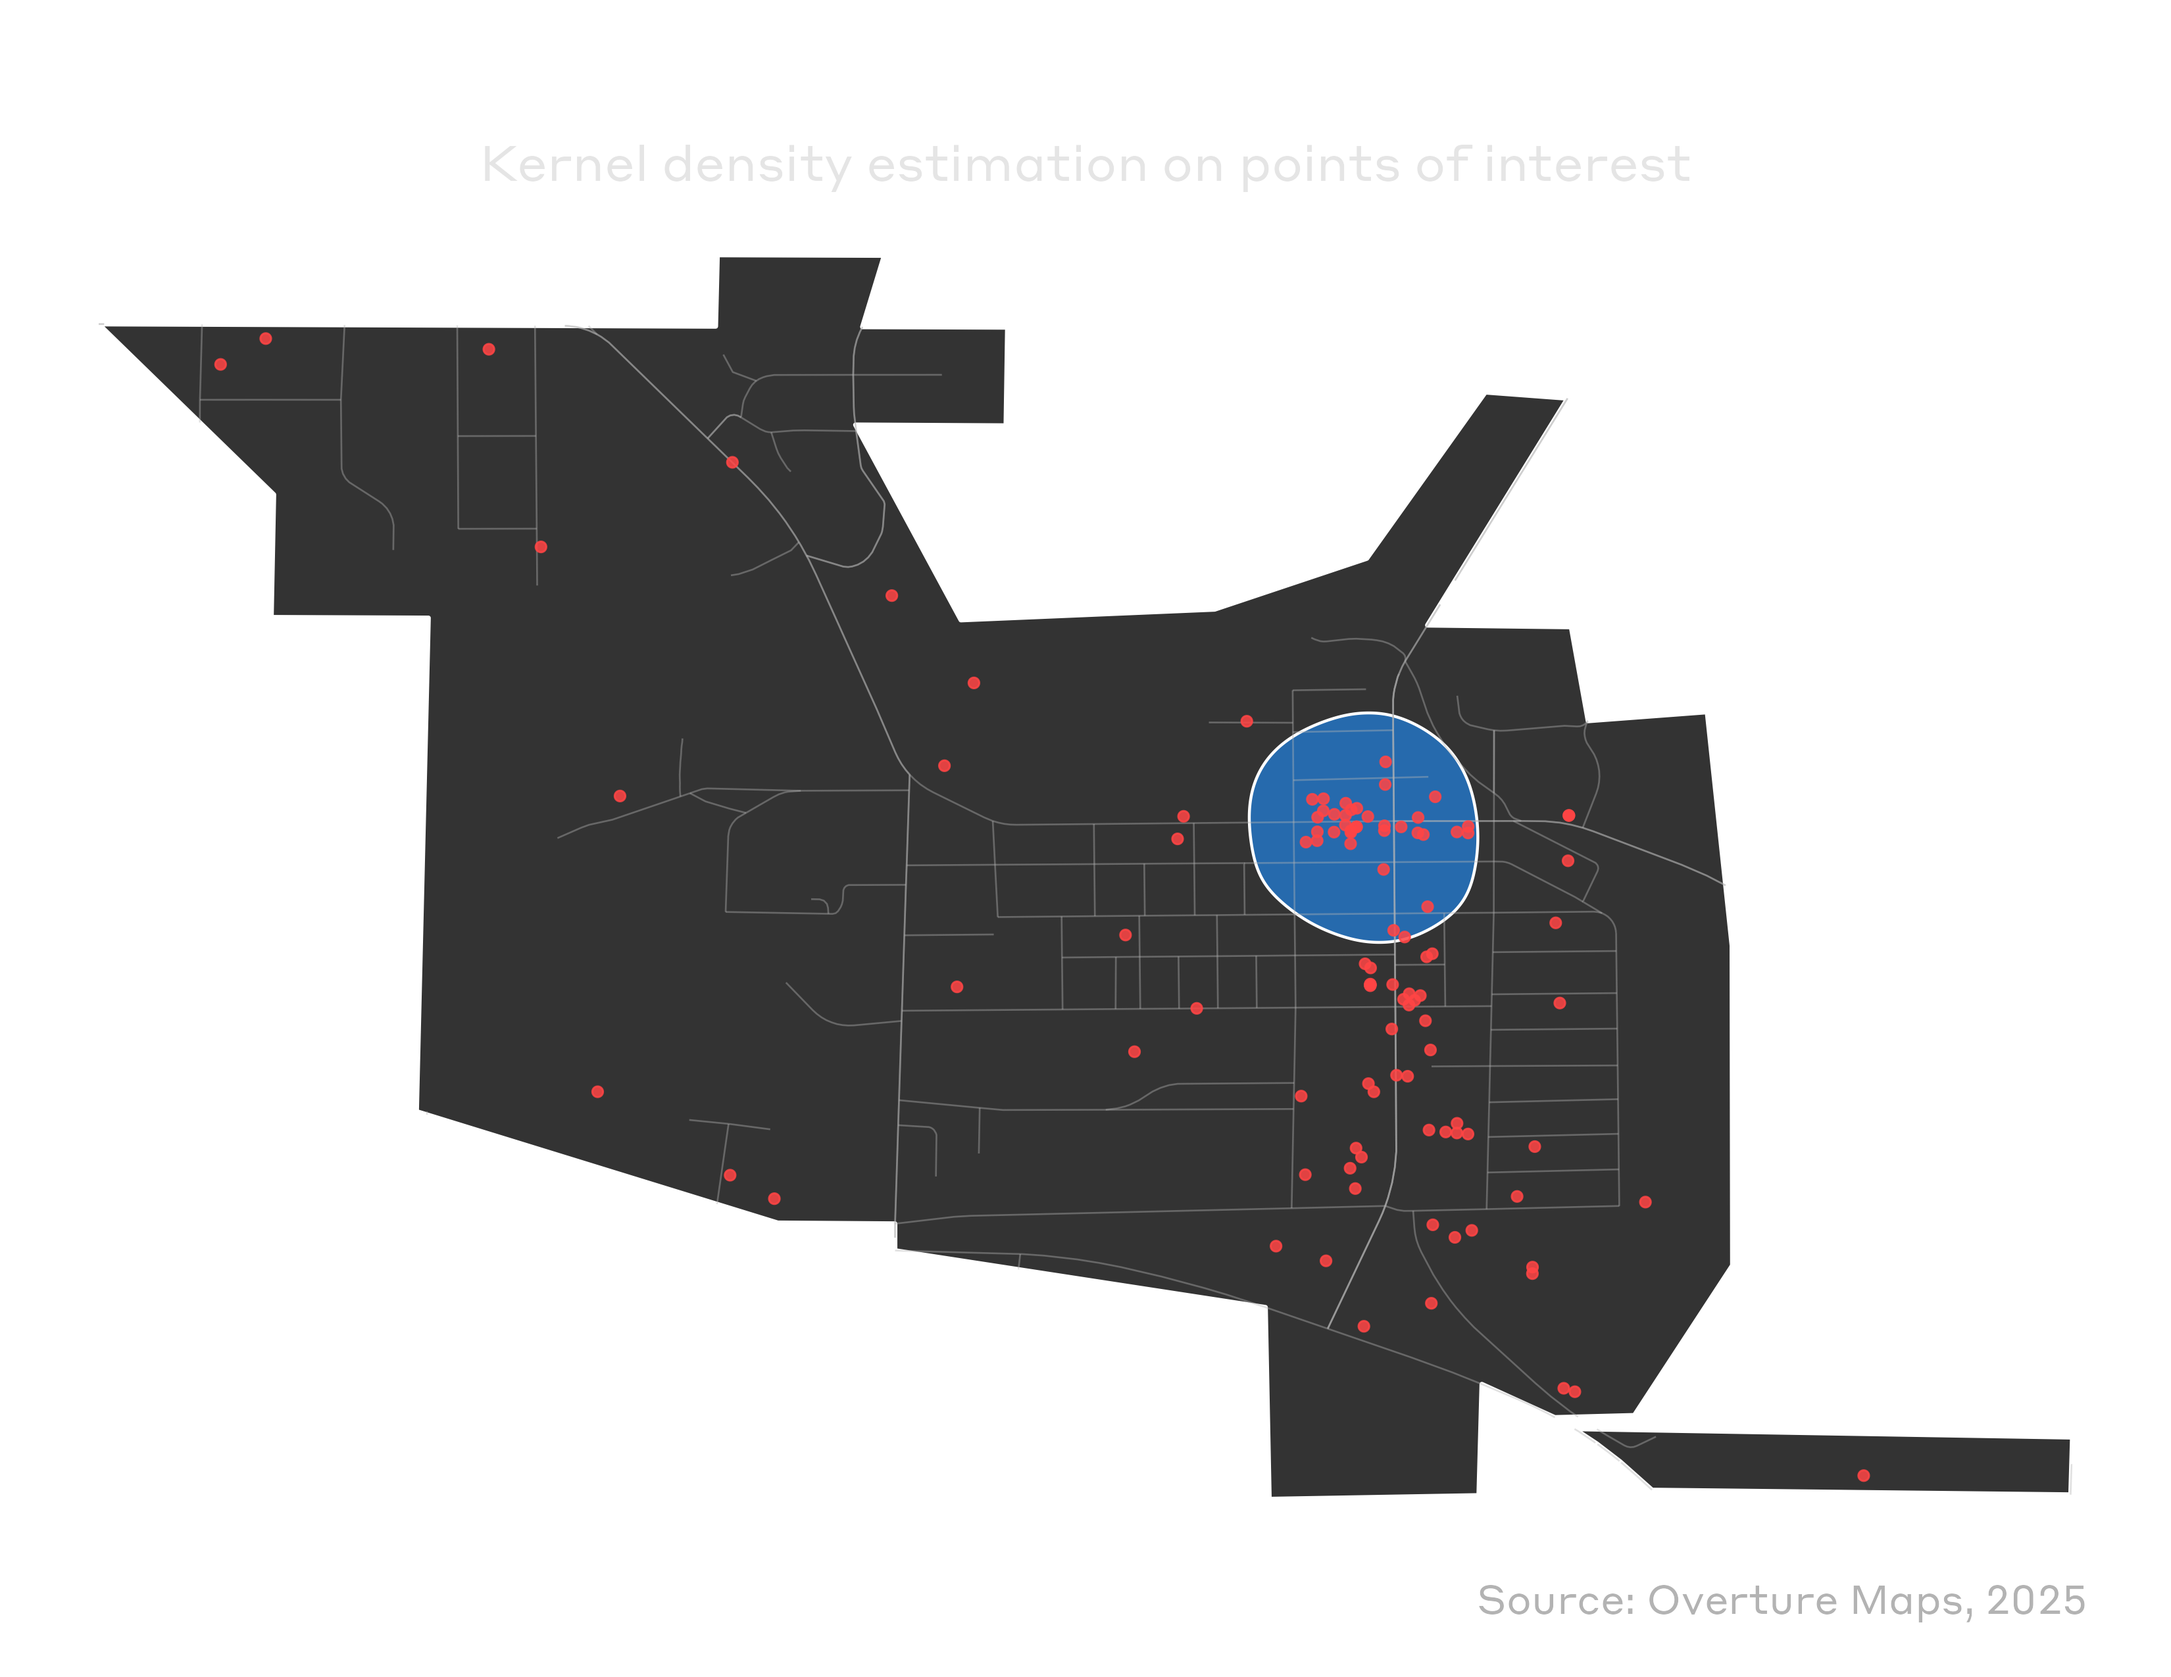
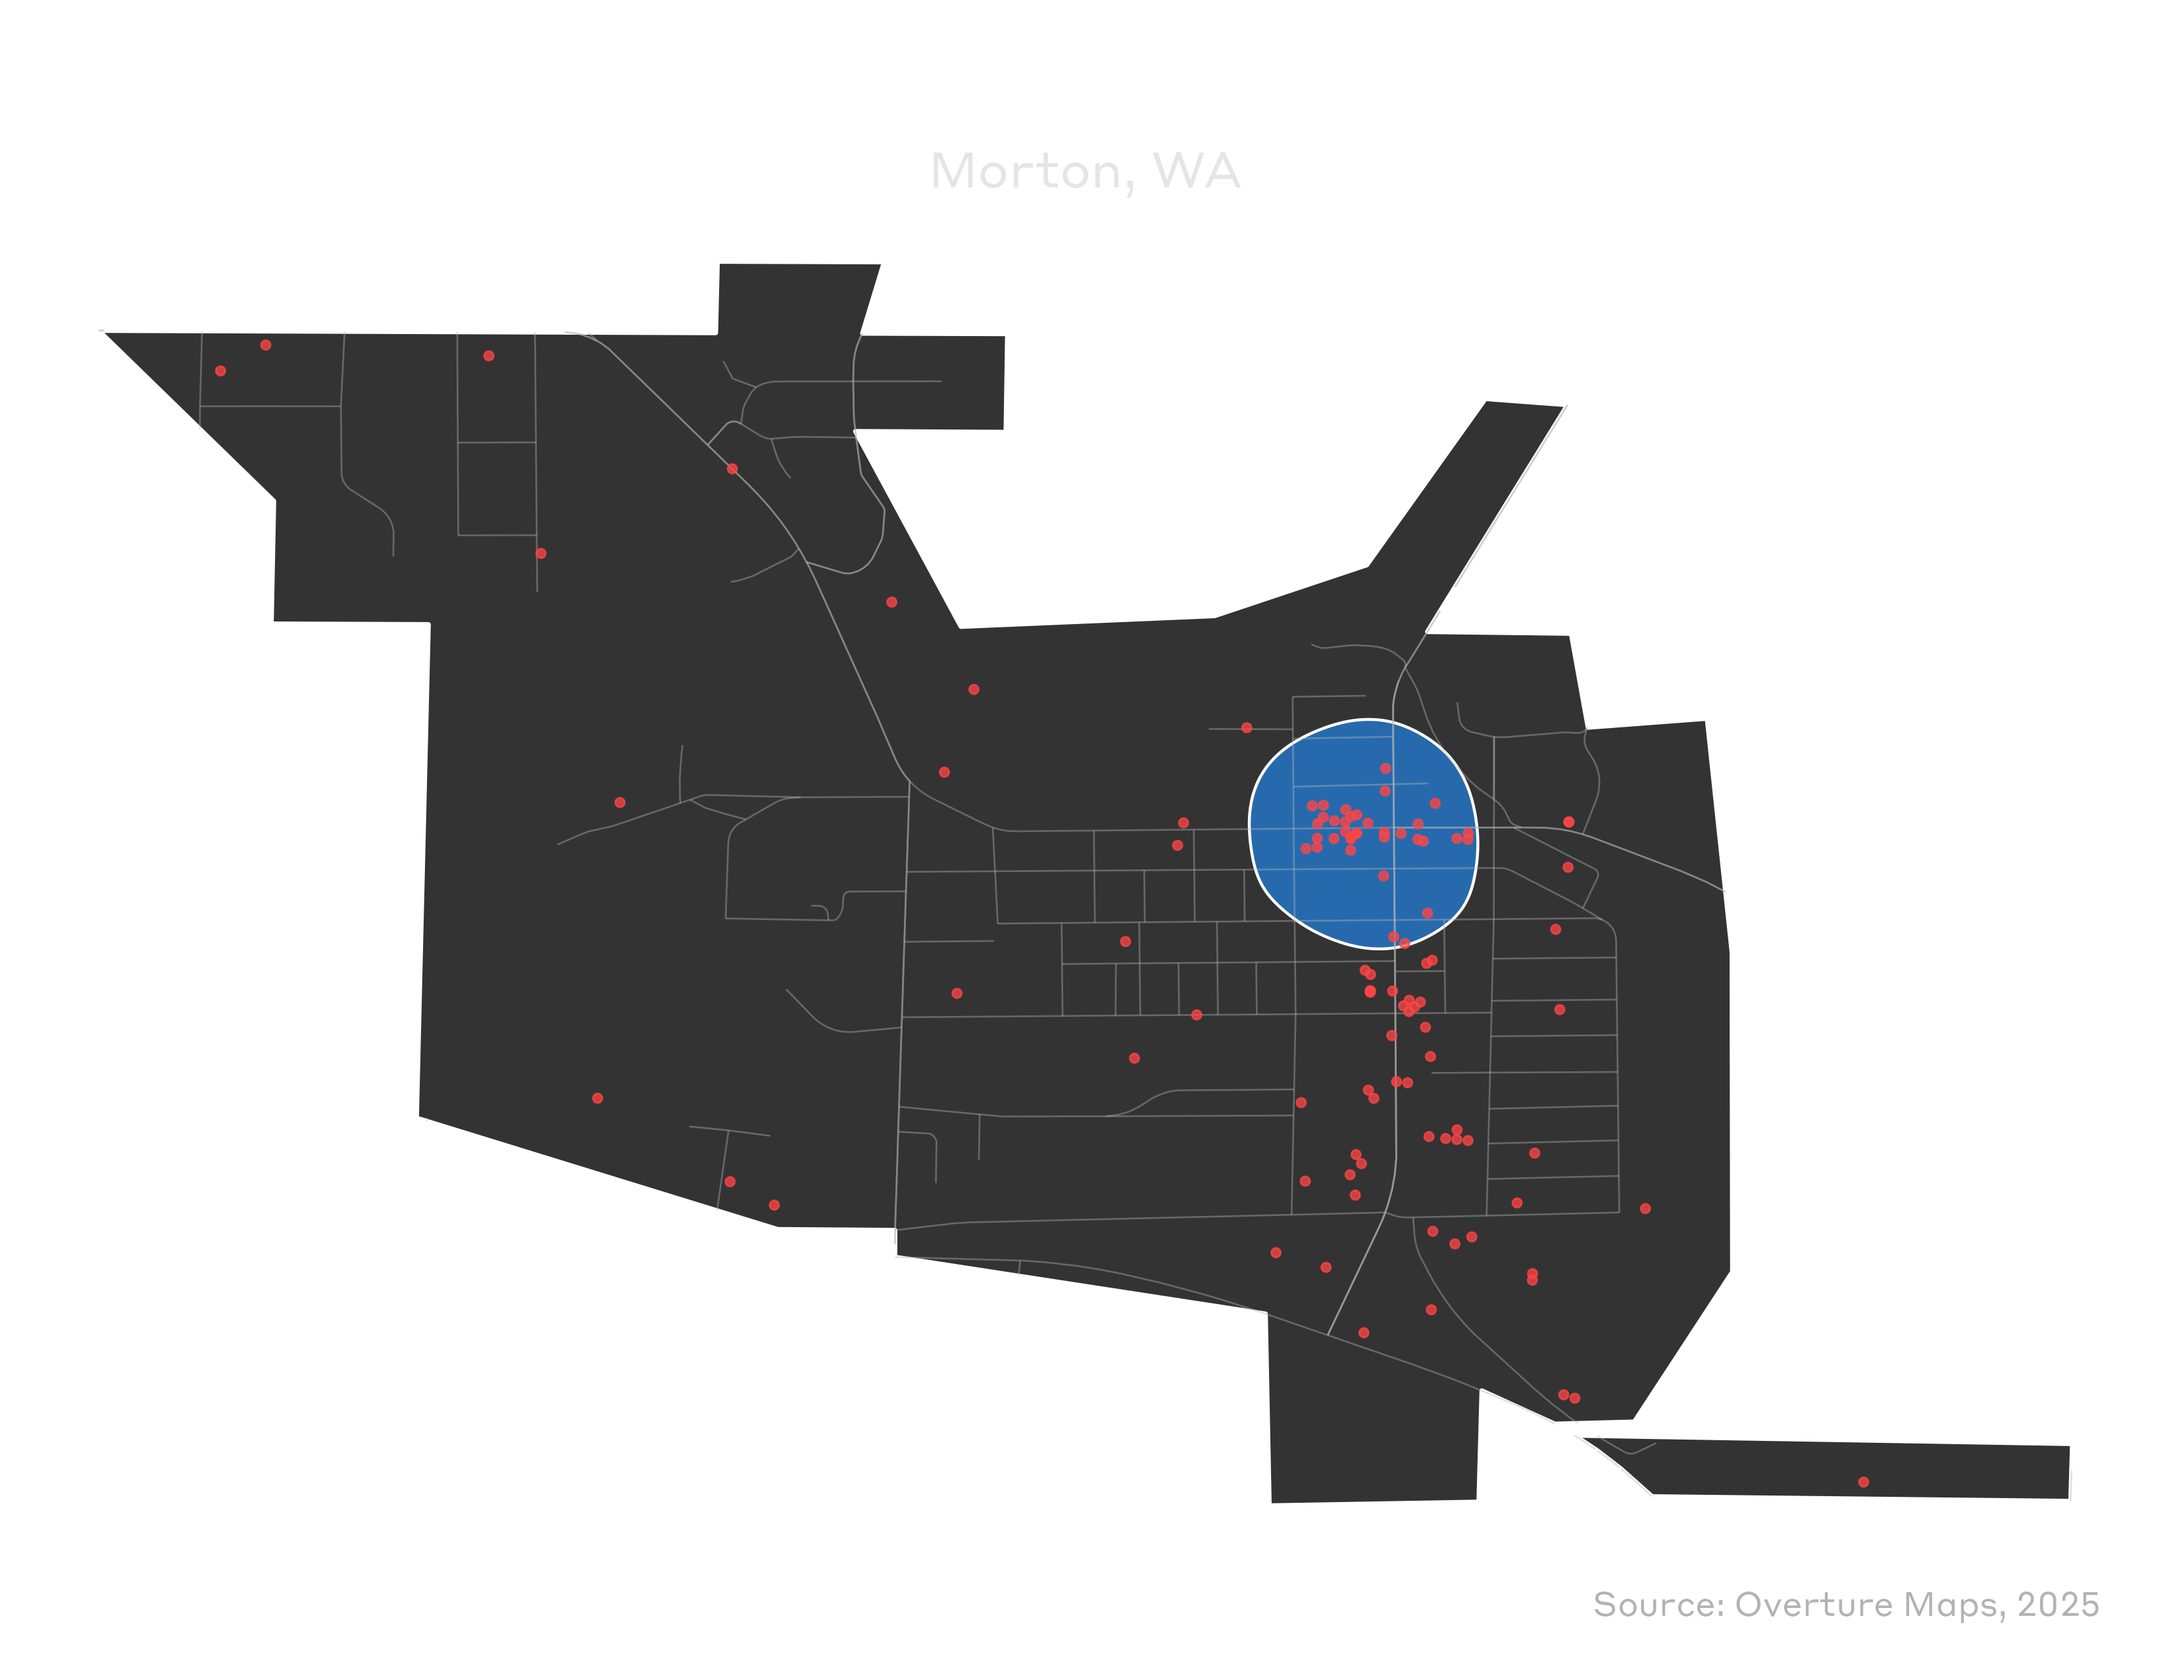
Fix plot demo

diff --git a/README.md b/README.md
@@ -2,7 +2,11 @@
 
 This repo builds approximate downtown/central business district polygons for a universe of Washington towns and small cities, using historical population data and modern points-of-interest (POI) data.
 
-![Morton downtown map](plot/demo_dark.png)
+<p align="center">
+
+<img src="plot/demo_dark.png" alt="Morton downtown map" width="80%"/>
+
+</p>
 
 The workflow has three main stages:
 
